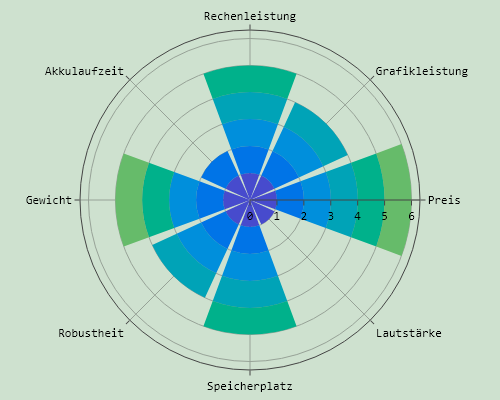
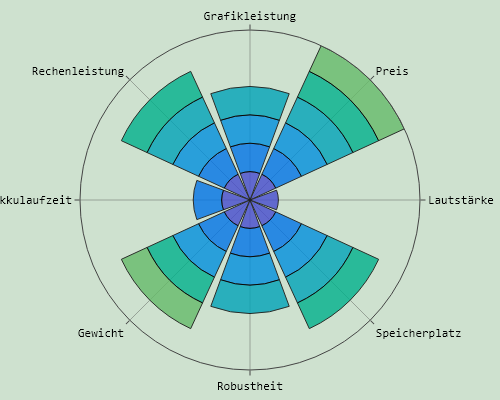
push

diff --git a/main.py b/main.py
@@ -15,46 +15,32 @@ buttonConfirm = gui.Button('FERTIG', image_data=imageData.buttonPrevious, size=(
 buttonOne = gui.Button('', image_data=imageData.buttonUsedForOne, key='buttonOne', button_color=('white', '#66bb6a'), pad=([81,26],[0,0]))
 buttonTwo = gui.Button('', image_data=imageData.buttonUsedForTwo, key='buttonTwo', button_color=('white', '#66bb6a'), pad=([0,26],[0,0]))
 buttonThree = gui.Button('', image_data=imageData.buttonUsedForThree, key='buttonThree', button_color=('white', '#66bb6a'))
-infoTextButtonOne =   gui.Text('                                                                                                     \n \n \n \n \n \n', 
-                    font='Consolas 8', background_color='#cee1cf', text_color='black', key='textInfoButtonOne', pad=([81,0],[20,50]))
-infoTextButtonTwo =   gui.Text('                                                                                                     \n \n \n \n \n \n', 
-                    font='Consolas 8', background_color='#cee1cf', text_color='black', key='textInfoButtonTwo', pad=([0,26],[20,50]))
-infoTextButtonThree =   gui.Text('                                                                                                   \n \n \n \n \n \n', 
-                    font='Consolas 8', background_color='#cee1cf', text_color='black', key='textInfoButtonThree', pad=([0,0],[20,50]))
-infoTextRowNamesUserSelection = gui.Text('Anwendung/Leistung \nPreis \nGewicht und Größe \nAkkulaufzeit \nLautstärke \nRobustheit \n',
-                    font='Consolas 10', background_color='#cee1cf', text_color='black', pad=([80,0],[0,0]))
-infoTextCurrentUserSelection =   gui.Text('                                                                                          \n \n \n \n \n \n', 
-                    font='Consolas 10', background_color='#cee1cf', text_color='black', key='textRightColumnInfoSelection', pad=([20,0],[0,0]))
+infoTextButtonOne =   gui.Text('                                                                                                     \n \n \n \n \n \n', font='Consolas 8', background_color='#eef5ef', text_color='black', key='textInfoButtonOne', pad=([81,0],[20,50]))
+infoTextButtonTwo =   gui.Text('                                                                                                     \n \n \n \n \n \n', font='Consolas 8', background_color='#eef5ef', text_color='black', key='textInfoButtonTwo', pad=([0,26],[20,50]))
+infoTextButtonThree =   gui.Text('                                                                                                   \n \n \n \n \n \n', font='Consolas 8', background_color='#eef5ef', text_color='black', key='textInfoButtonThree', pad=([0,0],[20,50]))
+infoTextRowNamesUserSelection = gui.Text('Anwendung/Leistung \nPreis \nGewicht und Größe \nAkkulaufzeit \nLautstärke \nRobustheit \n',font='Consolas 10', background_color='#eef5ef', text_color='black', pad=([80,0],[0,0]))
+infoTextCurrentUserSelection =   gui.Text('                                                                                          \n \n \n \n \n \n', font='Consolas 10', background_color='#eef5ef', text_color='black', key='textRightColumnInfoSelection', pad=([20,0],[0,0]))
 headingLeftColumn = gui.Text('Auswahl: Anwendungsgebiet', background_color='#252525', border_width=15, size=(37,1), justification='center', key='headingLeftColumn', pad=([81,0],[35,25]))
 headingRightColumn = gui.Text('Aktuelle Auswahl', background_color='#252525', border_width=15, size=(27,1), justification='center', pad=([81,0],[35,25]))
+plotCanvas = gui.Image(key='plotCanvas', pad=([0,0],[20,0]), size=(500,400), background_color='#eef5ef')
 
-
-plotCanvas = gui.Image(key='plotCanvas', pad=([0,0],[20,0]), size=(500,400), background_color='#cee1cf')
 buttonPressed = 4
 
 #evtl in window/layout rein
-gui.SetOptions(background_color='#cee1cf',      
+gui.SetOptions(background_color='#eef5ef',      
        use_ttk_buttons=True,
        button_color=('white', '#66bb6a'),
        text_color='black')
 
-leftLeftColumn = [[buttonOne],[infoTextButtonOne]]
-leftCenterColumn = [[buttonTwo], [infoTextButtonTwo]]
-leftRightColumn = [[buttonThree], [infoTextButtonThree]]
-
-rightColumn = [[headingRightColumn],[infoTextRowNamesUserSelection, infoTextCurrentUserSelection],[plotCanvas]]
-
+leftLeftColumn, leftCenterColumn, leftRightColumn = [[buttonOne],[infoTextButtonOne]], [[buttonTwo], [infoTextButtonTwo]], [[buttonThree], [infoTextButtonThree]]
 leftColumn = [[headingLeftColumn], [gui.Column(leftLeftColumn), gui.Column(leftCenterColumn), gui.Column(leftRightColumn)],[buttonPrevious, buttonNext, buttonConfirm]]
-rightColumn = [[gui.Column(rightColumn)]]
-
+rightColumn = [[gui.Column([[headingRightColumn],[infoTextRowNamesUserSelection, infoTextCurrentUserSelection],[plotCanvas]])]]
 layout = [[gui.Column(leftColumn, size=(600, 700)), gui.VerticalSeparator(), gui.Column(rightColumn, size=(500, 700))]]
-
 window = gui.Window('PC Builder', layout, margins=(0,0), element_padding=(0,0), no_titlebar=False, grab_anywhere=False, use_default_focus=False, icon=imageData.buttonUsedForThree, font='Consolas', finalize=True)
 
 figTest = RadarChartBuilder()
 figTest.buildChart3()
 window['plotCanvas'].update('images/fig3.png')
-
 
 #initialize, später löschen
 viewController.updatePageAndElementsOnNextButtonClick(4, window)   

diff --git a/RadarChartBuilder.py b/RadarChartBuilder.py
@@ -44,43 +44,61 @@ class RadarChartBuilder(object):
     
     def buildChart3(self):
         categories = ['Preis', 'Grafikleistung', 'Rechenleistung', 'Akkulaufzeit', 'Gewicht', 'Robustheit', 'Speicherplatz', 'Lautstärke']  
-        fig = go.Figure()
+        fig = go.Figure()        
 
         fig.add_trace(go.Barpolar(
             r=[1,1,1,1,1,1,1,1],
             name='niedrig',
             theta=categories,
-            marker_color='rgb(71, 75, 205)'
+            marker_color='rgb(71, 75, 205)',
+            marker_line_color="black",
+            marker_line_width=1,
+            opacity=0.8
         ))
         fig.add_trace(go.Barpolar(
             r=[1,1,1,1,1,1,1,0],
             name='niedrig',
             theta=categories,
-            marker_color='rgb(0, 116, 231)'
+            marker_color='rgb(0, 116, 231)',
+            marker_line_color="black",
+            marker_line_width=1,
+            opacity=0.8
         ))  
         fig.add_trace(go.Barpolar(
             r=[1,1,1,0,1,1,1,0],
             name='niedrig',
             theta=categories,
-            marker_color='rgb(0, 143, 220)'
+            marker_color='rgb(0, 143, 220)',
+            marker_line_color="black",
+            marker_line_width=1,
+            opacity=0.8
         ))  
         fig.add_trace(go.Barpolar(
             r=[1,1,1,0,0,1,1,0],
             name='niedrig',
             theta=categories,
-            marker_color='rgb(0, 163, 183)'
+            marker_color='rgb(0, 163, 183)',
+            marker_line_color="black",
+            marker_line_width=1,
+            opacity=0.8
         ))  
         fig.add_trace(go.Barpolar(
             r=[1,0,1,0,1,0,1,0],
             name='niedrig',
             theta=categories,
-            marker_color='rgb(0, 177, 139)'
+            marker_color='rgb(0, 177, 139)',
+            marker_line_color="black",
+            marker_line_width=1,
+            opacity=0.8
         ))  
         fig.add_trace(go.Barpolar(
             r=[1,0,0,0,1,0,0,0],
             name='niedrig',
             theta=categories,
-            marker_color='rgb(102, 187, 106)'
+            marker_color='rgb(102, 187, 106)',
+            marker_line_color="black",
+            marker_line_width=1,
+            opacity=0.8
         ))       
         
         fig.update_traces()
@@ -92,9 +110,8 @@ class RadarChartBuilder(object):
             font_family='Consolas',
             showlegend = False,
             font_color='#000000',
-            polar = dict(bgcolor='#cee1cf'),
-            paper_bgcolor='#cee1cf'
-            
+            polar = dict(bgcolor='#eef5ef', radialaxis = dict(visible = False, range = [0, 6]), angularaxis = dict(rotation=45)),
+            paper_bgcolor='#eef5ef'            
         )
 
         fig.write_image("images/fig3.png", 'png', 'kaleido', width=500, height=400)

diff --git a/ViewController.py b/ViewController.py
@@ -27,7 +27,6 @@ class ViewController(object):
         self.propsData = AvailableOptionsModel()
         self.mainController = CombineOptionsController(self.propsData) 
         self.plotSimpleSelection = RadarChartBuilder()
-
              
 
     def updatePageAndElementsOnNextButtonClick(self, buttonClicked, window):
